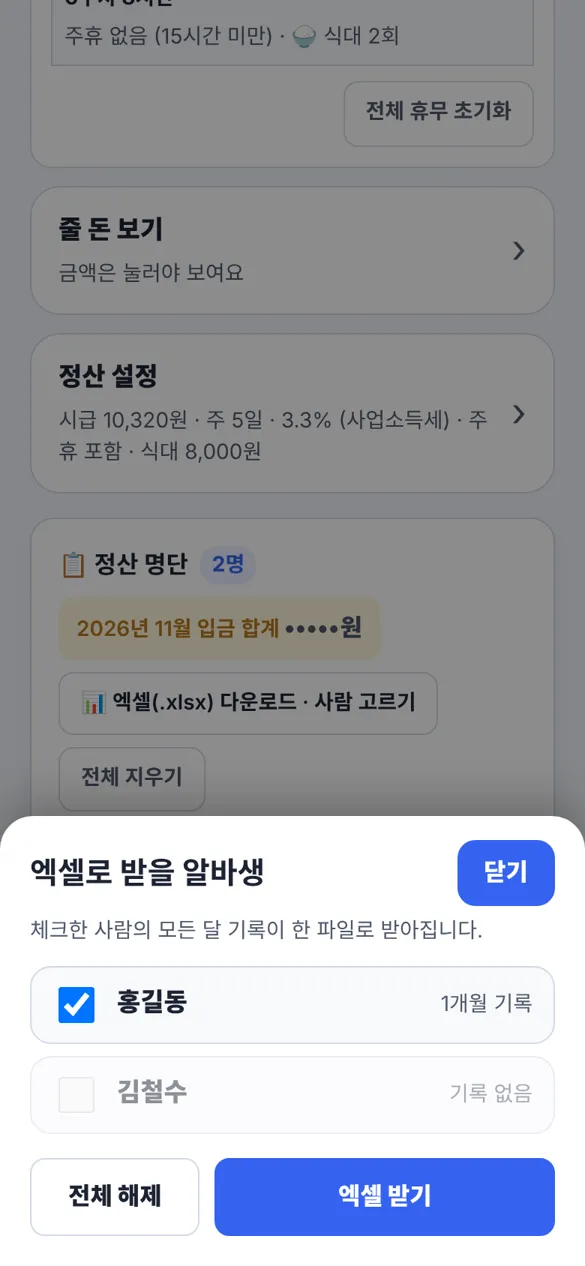
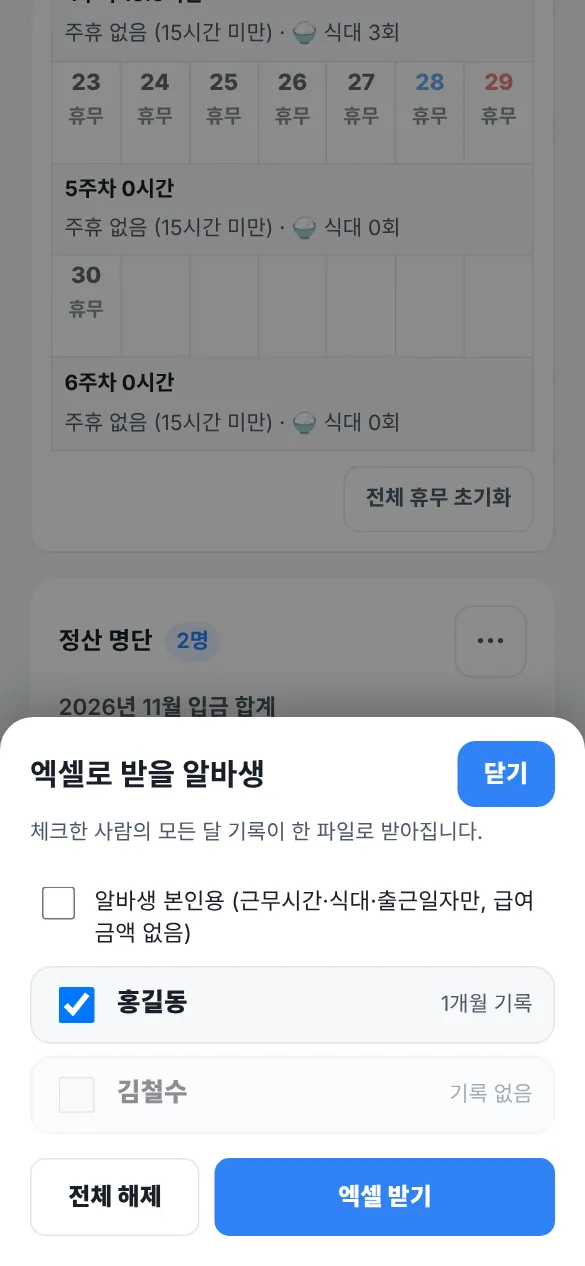
사용 방법: v1.7.0 새 화면으로 그림·문구 최신화
- 사용 방법 그림 10장을 새 화면으로 다시 찍음 (출퇴근 목록·비밀번호·퇴근 결과, 급여 첫 화면,
  알바생 추가, 날짜 설정 창, 줄 돈 보기, 정산 설정, 정산 명단 ⋯ 메뉴, 엑셀 받을 사람 고르기)
  — 예전 그림은 옛 머리띠·이모지 탭·초록 '근무 중'·큰 엑셀/전체 지우기 버튼이었음. 캐시 버전 붙임
- 문구: 근무 중 색(초록→파랑), 엑셀은 정산 명단 [⋯] → [엑셀로 받기], 공용 컴퓨터 정리는
  [⋯] → [명단 전체 지우기]·[보관함 비우기], 세율·최저시급은 설정의 해당 줄, 위생 점검 엑셀 버튼 이름,
  '⚙ 설정 →' 표기를 '설정 →'으로 (탭에 이모지가 없어짐). 영어 번역 함께
- 사용 방법 e2e(한/영)·번역 누락·화면 e2e·npm test 통과, 그림 10장 로드 확인

Claude-Session: https://claude.ai/code/session_01Lf3ccUPw6W9Ldv8KuFX3Gf

diff --git a/web/lang_web.js b/web/lang_web.js
@@ -254,8 +254,8 @@
  "위쪽 <b>달</b>을 바꾸면 그 달의 기록이 나옵니다. 기록이 없는 달은 비어 있습니다.": "Change the <b>month</b> at the top to see that month's records. Months without records are empty.",
  "시급을 바꾸면 <b>바꾼 달부터</b> 적용되고, 지난 달 기록은 그대로입니다.": "When you change the wage it applies <b>from that month on</b>; past months stay as they were.",
  "맨 아래 <b>정산 명단</b>에는 알바생이 한 줄씩 카드로 나옵니다. 근무시간과 식대 횟수, 금액이 보이고(금액은 <b>[줄 돈 보기]</b>를 눌러야 보임), 카드를 누르면 그 사람 기록으로 바뀌고, 오른쪽 <b>✕</b>를 누르면 삭제합니다.": "The <b>Staff list</b> at the bottom shows one card per person. You see hours, meal count and amount (the amount appears only after tapping <b>[Show amount to pay]</b>); tap a card to switch to that person, and tap <b>✕</b> on the right to delete.",
- "<b>[엑셀(.xlsx) 다운로드 · 사람 고르기]</b>를 누르면 알바생 목록이 뜹니다. <b>받고 싶은 사람만 체크</b>하고 <b>[엑셀 받기]</b>를 누르면, 체크한 사람의 모든 달 기록이 한 파일로 받아집니다. <b>[알바생 본인용]</b>에 체크하면 급여 금액·시급·세금 없이 <b>출근일자·근무시간·식대 횟수만</b> 담긴 파일이 만들어져 알바생에게 그대로 줄 수 있습니다. 한 명만 체크하면 파일 이름에 그 사람 이름이 들어갑니다.": "Tap <b>[Download Excel (.xlsx) · choose people]</b> to see the staff list. <b>Check only the people you want</b> and tap <b>[Get Excel]</b> to download all months for the checked people in one file. If you check <b>[For the staff member]</b>, the file contains only <b>dates worked, hours and meal counts</b> — no pay amounts, wage or tax — so you can hand it over as is. If only one person is checked, their name is in the file name.",
- "정산 명단 (카드 목록)": "Staff list (cards)",
+ "정산 명단 오른쪽 위 <b>[⋯] → [엑셀로 받기]</b>를 누르면 알바생 목록이 뜹니다. <b>받고 싶은 사람만 체크</b>하고 <b>[엑셀 받기]</b>를 누르면, 체크한 사람의 모든 달 기록이 한 파일로 받아집니다. <b>[알바생 본인용]</b>에 체크하면 급여 금액·시급·세금 없이 <b>출근일자·근무시간·식대 횟수만</b> 담긴 파일이 만들어져 알바생에게 그대로 줄 수 있습니다. 한 명만 체크하면 파일 이름에 그 사람 이름이 들어갑니다.": "Tap <b>[⋯] → [Download Excel]</b> at the top right of the staff list to see the staff list. <b>Check only the people you want</b> and tap <b>[Get Excel]</b> to download all months for the checked people in one file. If you check <b>[For the staff member]</b>, the file contains only <b>dates worked, hours and meal counts</b> — no pay amounts, wage or tax — so you can hand it over as is. If only one person is checked, their name is in the file name.",
+ "정산 명단 (오른쪽 위 ⋯ 메뉴를 연 모습)": "Staff list (with the ⋯ menu open)",
  "엑셀로 받을 알바생 고르기": "Choosing staff to export to Excel",
  "<span class=\"guide-no\">5</span>위생 점검하기": "<span class=\"guide-no\">5</span>Doing a hygiene check",
  "위쪽 <b>[위생 점검]</b> 탭을 누릅니다.": "Tap the <b>[Hygiene]</b> tab at the top.",
@@ -264,7 +264,7 @@
  "전부 괜찮다면 <b>[✅ 전체 적합으로 체크]</b>를 누르면 됩니다.": "If everything is fine, just tap <b>[✅ Mark all as pass]</b>.",
  "특이사항이 있으면 메모에 적습니다.": "Write any remarks in the memo.",
  "<b>[🗂 보관함에 저장]</b>을 누르면 그날 점검표가 저장됩니다. 매일 저장해 두면 기록이 쌓입니다.": "Tap <b>[🗂 Save to archive]</b> to save that day's checklist. Save daily to build up records.",
- "<b>[🖨 점검표 PDF 출력/저장]</b>, <b>[📊 엑셀 다운로드]</b>로 점검표를 파일로 만들 수 있습니다.": "Create files with <b>[🖨 Print / save checklist PDF]</b> and <b>[📊 Download Excel]</b>.",
+ "<b>[🖨 점검표 PDF 출력/저장]</b>, <b>[📊 점검표 엑셀(.xlsx) 다운로드]</b>로 점검표를 파일로 만들 수 있습니다.": "Create files with <b>[🖨 Print / save checklist PDF]</b> and <b>[📊 Download checklist Excel (.xlsx)]</b>.",
  "💡 20번 항목(냉장·냉동고 온도)은 체크해도, 입력한 온도가 기준(냉장 0~5°C, 냉동 -18°C 이하)을 벗어나면 점검필요로 나옵니다.": "💡 For item 20 (fridge/freezer temperature), even if checked, it shows Needs attention if the entered temperature is outside the standard (fridge 0–5°C, freezer −18°C or below).",
  "<span class=\"guide-no\">6</span>구글 시트에 자동 저장하기 <small>(선택)</small>": "<span class=\"guide-no\">6</span>Saving automatically to Google Sheets <small>(optional)</small>",
  "휴대폰을 바꾸거나 다른 컴퓨터에서 열어도 <b>같은 기록</b>을 보고 싶을 때 쓰세요. 내 구글 드라이브에 자동으로 저장됩니다.": "Use this to see <b>the same records</b> after changing phones or opening on another computer. Data is saved automatically to your own Google Drive.",
@@ -290,11 +290,11 @@
  "💡 구글 연동을 쓰지 않더라도 가끔 백업 파일을 받아 두면 안심입니다.": "💡 Even if you don't use Google save, it is reassuring to download a backup file now and then.",
  "<span class=\"guide-no\">8</span>자주 묻는 질문": "<span class=\"guide-no\">8</span>FAQ",
  "세금이나 4대보험 비율이 바뀌었어요.": "The tax or insurance rates changed.",
- "위쪽 <b>⚙ 설정</b> 탭에서 소득세·국민연금·건강보험 등의 비율과 최저시급을 고치면 바로 계산에 반영됩니다. 처음 값으로 되돌릴 수도 있습니다.": "In the <b>⚙ Settings</b> tab, change income tax, pension, health insurance rates and the minimum wage, and the calculation updates immediately. You can also reset to the defaults.",
+ "<b>설정</b> 탭의 <b>세금·4대보험 비율</b>, <b>최저시급·식사 시간대</b> 줄을 눌러 소득세·국민연금·건강보험 등의 비율과 최저시급을 고치면 바로 계산에 반영됩니다. 처음 값으로 되돌릴 수도 있습니다.": "In the <b>Settings</b> tab, open <b>Tax & insurance rates</b> and <b>Minimum wage & meal times</b> to change income tax, pension, health insurance rates and the minimum wage, and the calculation updates immediately. You can also reset to the defaults.",
  "기록이 사라졌어요.": "My records disappeared.",
  "기록은 사용 중인 브라우저에 저장됩니다. 브라우저의 \"인터넷 사용 기록/사이트 데이터 삭제\"를 하면 같이 지워집니다. 구글 연동이나 백업 파일이 있다면 [☁ 구글 저장] 창에서 불러오세요.": "Records are stored in the browser you use. Clearing \"browsing data / site data\" removes them too. If you have Google save or a backup file, load them from the [☁ Google save] window.",
  "가게 공용 컴퓨터에서 써도 되나요?": "Is it OK to use on a shared store computer?",
- "쓰고 난 뒤 정산 명단의 <b>[전체 지우기]</b>와 점검 보관함의 <b>[비우기]</b>를 눌러 주세요. 다음 사람이 같은 브라우저에서 알바 이름과 시급을 볼 수 있습니다.": "After use, tap <b>[Clear all]</b> in the staff list and <b>[Empty]</b> in the check archive. Otherwise the next person on the same browser can see staff names and wages.",
+ "쓰고 난 뒤 정산 명단과 점검 보관함의 오른쪽 위 <b>[⋯]</b>에서 <b>[명단 전체 지우기]</b>, <b>[보관함 비우기]</b>를 눌러 주세요. 다음 사람이 같은 브라우저에서 알바 이름과 시급을 볼 수 있습니다.": "After use, open <b>[⋯]</b> at the top right of the staff list and the saved checks and tap <b>[Clear the whole list]</b> and <b>[Empty saved checks]</b>. Otherwise the next person on the same browser can see staff names and wages.",
  "내가 입력한 급여 정보가 어디로 전송되나요?": "Where is the pay information I enter sent?",
  "기본적으로 어디로도 전송되지 않고 이 기기에서만 계산됩니다. 구글 연동을 켠 경우에만 내 구글 드라이브로 저장됩니다.": "By default it is sent nowhere and calculated only on this device. It is saved to your own Google Drive only if you turn on Google save.",
  "계산 결과를 그대로 신고해도 되나요?": "Can I file taxes using these results as they are?",
@@ -303,19 +303,19 @@
  "매장에 두는 <b>공용 기기(사장님 폰·태블릿)</b>에서 알바생이 직접 출근·퇴근을 찍게 하는 기능입니다. 찍은 시각은 그대로 달력과 구글 시트에 들어갑니다.": "This lets staff clock in and out themselves on a <b>shared store device (the owner's phone or tablet)</b>. The recorded times go straight into the calendar and Google Sheet.",
  "① 준비 (사장님이 한 번만)": "① Setup (owner, once)",
  "알바생마다 <b>[정산 설정]</b>(컴퓨터는 왼쪽 입력칸)의 <b>\"출퇴근 비밀번호\"</b>를 정해 줍니다. 비밀번호가 없는 알바생은 출퇴근을 찍을 수 없습니다.": "Set a <b>\"clock-in password\"</b> for each staff member in <b>[Pay settings]</b> (on a computer, the input fields on the left). Staff without a password cannot clock in or out.",
- "<b>⚙ 설정 → 관리자 비밀번호</b>를 정합니다. 처음 직원을 추가하면 안내창이 뜨는데, 바로 정하거나 <b>[나중에]</b>를 눌러 나중에 정해도 됩니다. 정하면 평소에는 <b>⏱ 출퇴근 화면만</b> 보이고, 급여·위생·설정은 <b>[🔒 관리자]</b>를 눌러 비밀번호를 입력해야 열립니다. 아무것도 안 하면 10분 뒤 자동으로 다시 잠깁니다.": "Set an <b>⚙ Settings → Admin password</b>. A prompt appears when you first add staff — set it right away or tap <b>[Later]</b> and do it afterwards. Once set, normally only the <b>⏱ clock-in screen</b> is shown, and Payroll, Hygiene and Settings open only after you tap <b>[🔒 Admin]</b> and enter the password. It locks again automatically after 10 minutes of inactivity.",
+ "<b>설정 → 관리자 비밀번호</b>를 정합니다. 처음 직원을 추가하면 안내창이 뜨는데, 바로 정하거나 <b>[나중에]</b>를 눌러 나중에 정해도 됩니다. 정하면 평소에는 <b>⏱ 출퇴근 화면만</b> 보이고, 급여·위생·설정은 <b>[🔒 관리자]</b>를 눌러 비밀번호를 입력해야 열립니다. 아무것도 안 하면 10분 뒤 자동으로 다시 잠깁니다.": "Set an <b>Settings → Admin password</b>. A prompt appears when you first add staff — set it right away or tap <b>[Later]</b> and do it afterwards. Once set, normally only the <b>⏱ clock-in screen</b> is shown, and Payroll, Hygiene and Settings open only after you tap <b>[🔒 Admin]</b> and enter the password. It locks again automatically after 10 minutes of inactivity.",
  "<b>자정까지 퇴근을 안 찍으면</b> 출근 중인 사람은 그날 <b>출근이 무효(휴무)로 처리</b>됩니다. 퇴근을 꼭 찍어 주세요. 잊었다면 사장님이 달력에서 그날 시간을 직접 넣어 주세요. (시트 기록에는 \"퇴근누락(무효)·자동(자정)\"으로 남습니다) 다시 로그인하거나 시트에서 불러오면 시트의 출퇴근 기록을 읽어 출근/퇴근 상태도 되살립니다.": "<b>If someone doesn't clock out by midnight</b>, that day's clock-in is <b>treated as void (a day off)</b>. Please make sure to clock out. If it was forgotten, the owner can enter that day's hours on the calendar. (The sheet log records \"missed clock-out (void) · auto (midnight)\".) When you log in again or load from the sheet, the clock-in/out log in the sheet is read and the in/out status is restored.",
  "출퇴근 화면 맨 아래에 <b>구글 저장 연결 상태</b>가 보입니다. 빨간 글씨 \"구글 로그인이 풀렸어요\"가 보이면 사장님이 [🔒 관리자]로 들어가 구글을 다시 연결해 주세요. 새로고침해도 로그인·관리자 잠금 해제는 약 10분(구글은 약 1시간) 동안 유지됩니다.": "The <b>Google save connection status</b> is shown at the bottom of the clock-in screen. If you see the red text \"Google sign-in expired\", the owner should go in via [🔒 Admin] and reconnect Google. Even after a refresh, login and admin unlock are kept for about 10 minutes (Google for about 1 hour).",
  "알바생이나 명단을 지우면 시트의 <b>출퇴근기록</b> 탭에서도 그 사람 줄이 함께 지워집니다.": "If you delete a staff member or the list, their rows are also deleted from the <b>clock-in log</b> tab of the sheet.",
- "출퇴근 화면을 계속 켜 두면 <b>화면 보호기</b>가 작동합니다(기본 3분). 화면이 어두워지고 시계가 천천히 움직여 번인을 줄여요. 한 번 누르면 돌아옵니다. <b>⚙ 설정 → 화면 보호기</b>에서 시간을 바꾸거나 끌 수 있습니다.": "If the clock-in screen stays on, the <b>screen saver</b> starts (default 3 minutes). The screen dims and the clock moves slowly to reduce burn-in. Tap once to return. Change or turn it off in <b>⚙ Settings → Screen saver</b>.",
- "<b>⚙ 설정 → 출퇴근 알림음</b>에서 소리 크기를 키우고, 출근과 퇴근 소리를 각각 다른 소리로 고를 수 있습니다. (매장 기기에서 정하세요)": "In <b>⚙ Settings → Clock-in/out sound</b> you can raise the volume and choose different sounds for clock-in and clock-out. (Set it on the store device.)",
+ "출퇴근 화면을 계속 켜 두면 <b>화면 보호기</b>가 작동합니다(기본 3분). 화면이 어두워지고 시계가 천천히 움직여 번인을 줄여요. 한 번 누르면 돌아옵니다. <b>설정 → 화면 보호기</b>에서 시간을 바꾸거나 끌 수 있습니다.": "If the clock-in screen stays on, the <b>screen saver</b> starts (default 3 minutes). The screen dims and the clock moves slowly to reduce burn-in. Tap once to return. Change or turn it off in <b>Settings → Screen saver</b>.",
+ "<b>설정 → 출퇴근 알림음</b>에서 소리 크기를 키우고, 출근과 퇴근 소리를 각각 다른 소리로 고를 수 있습니다. (매장 기기에서 정하세요)": "In <b>Settings → Clock-in/out sound</b> you can raise the volume and choose different sounds for clock-in and clock-out. (Set it on the store device.)",
  "<b>잊어버렸다면?</b> 구글 저장을 켜 두면 구글 시트의 <b>관리자</b> 탭 오른쪽 칸(B1)에 비밀번호가 적혀 있습니다. 그 칸을 새 비밀번호로 고친 뒤, 잠금 창에서 <b>[비밀번호를 잊었어요]</b>를 누르면 적용됩니다.": "<b>Forgot it?</b> With Google save on, the password is written in the right cell (B1) of the <b>Admin</b> tab of your Google Sheet. Change that cell to a new password, then tap <b>[I forgot my password]</b> on the lock screen to apply it.",
  "비밀번호를 잊으면 열 방법이 없으니 <b>구글 저장이나 백업 파일</b>을 꼭 해 두세요.": "If you forget the password there is no way to open it, so be sure to use <b>Google save or a backup file</b>.",
  "② 알바생이 찍는 방법": "② How staff clock in/out",
  "출퇴근 화면에서 <b>내 이름</b>을 누릅니다.": "On the clock-in screen, tap <b>your name</b>.",
  "<b>비밀번호</b>를 입력하고 <b>[출근 찍기]</b>(출근 중이면 <b>[퇴근 찍기]</b>)를 누릅니다.": "Enter your <b>password</b> and tap <b>[Clock in]</b> (or <b>[Clock out]</b> if you are clocked in).",
  "결과 창에 <b>이번 달 일한 일수와 누적 근무시간</b>이 나오고, <b>5초 뒤 자동으로 닫힙니다</b>. 바로 닫으려면 [닫기]를 누르세요.": "The result window shows <b>days worked this month and total hours</b> and <b>closes automatically after 5 seconds</b>. Tap [Close] to close it right away.",
- "출퇴근 화면 (초록색이 근무 중)": "Clock-in screen (green means working)",
+ "출퇴근 화면 (파란색이 근무 중)": "Clock-in screen (blue means working)",
  "비밀번호 입력": "Enter password",
  "퇴근을 찍은 뒤 결과 (5초 뒤 자동으로 닫힘)": "Result after clocking out (closes automatically after 5 seconds)",
  "③ 어떻게 기록되나요": "③ How is it recorded?",
@@ -621,10 +621,10 @@
  "관리자 화면 위의 <b>🔔</b>에 만료가 다가온 사람 수가 나옵니다. 누르면 <b>만료 → 7일 이내(빨강) → 곧 만료(노랑) → 날짜 미등록</b> 순서로 보입니다. 출퇴근 화면에는 보이지 않습니다.": "The <b>🔔</b> at the top of the admin screen shows how many people are close to expiry. Tap it to see them in order: <b>expired → within 7 days (red) → expiring soon (yellow) → no dates</b>. It is not shown on the clock-in screen.",
  "새 보건증을 받으면 <b>[새로 받았어요]</b>에서 검진일만 고르세요. 옛 만료일 <b>전후 30일 안</b>에 검진했다면 법에 따라 <b>옛 만료일 다음 날부터 1년</b>으로 계산됩니다.": "When a new certificate is issued, just pick the exam date under <b>[Got a new one]</b>. If the exam was within <b>30 days before or after</b> the old expiry, the new one is counted <b>from the day after the old expiry for 1 year</b>, as the rules require.",
  "그만둔 사람이나 휴직 중인 사람은 <b>[알림 끄기]</b> 또는 정산 설정의 <b>보건증 알림 끄기</b>로 목록에서 뺄 수 있습니다.": "For people who left or are on leave, use <b>[Turn off alert]</b> or <b>Turn off health certificate alerts</b> in pay settings to remove them from the list.",
- "언제부터 알려 줄지는 <b>⚙ 설정 → 보건증 알림</b>에서 30일·14일·7일 중 고릅니다. 보건소 결과가 보통 3~7일 걸리니 30일을 추천합니다.": "Choose when alerts start (30, 14 or 7 days) in <b>⚙ Settings → Health certificate alerts</b>. Results usually take 3–7 days, so 30 days is recommended.",
+ "언제부터 알려 줄지는 <b>설정 → 보건증 알림</b>에서 30일·14일·7일 중 고릅니다. 보건소 결과가 보통 3~7일 걸리니 30일을 추천합니다.": "Choose when alerts start (30, 14 or 7 days) in <b>Settings → Health certificate alerts</b>. Results usually take 3–7 days, so 30 days is recommended.",
  "💡 보건증이 만료된 사람이나 날짜를 안 적은 사람이 있으면 위생 점검표 <b>4번(건강진단결과서)</b> 항목 아래에 안내가 뜹니다. 체크 여부는 사장님이 정합니다.": "💡 If someone's certificate has expired or has no dates, a note appears under item <b>4 (health certificate)</b> of the hygiene checklist. Whether to tick it is up to you.",
  "<span class=\"guide-sum\"><span class=\"guide-name\">손님 계좌이체 QR</span><small class=\"guide-sub\">계좌 저장 · QR 크게 보기 · 안내판 인쇄</small></span>": "<span class=\"guide-sum\"><span class=\"guide-name\">Customer bank transfer QR</span><small class=\"guide-sub\">Save account · Show QR · Print sign</small></span>",
- "<b>⚙ 설정 → 손님 계좌이체 QR</b>에 은행·계좌번호·예금주를 적고 <b>[저장]</b>을 누릅니다. 관리자 비밀번호가 있으면 한 번 더 확인합니다.": "Enter the bank, account number and holder in <b>⚙ Settings → Customer bank transfer QR</b> and tap <b>[Save]</b>. If an admin password is set, it is asked once more.",
+ "<b>설정 → 손님 계좌이체 QR</b>에 은행·계좌번호·예금주를 적고 <b>[저장]</b>을 누릅니다. 관리자 비밀번호가 있으면 한 번 더 확인합니다.": "Enter the bank, account number and holder in <b>Settings → Customer bank transfer QR</b> and tap <b>[Save]</b>. If an admin password is set, it is asked once more.",
  "출퇴근 화면의 <b>[💳 계좌이체 QR]</b>을 누르면 큰 QR이 뜹니다. 관리자 잠금 중에도 <b>보기만</b> 할 수 있습니다. <b>[🖨 안내판 인쇄]</b>로 카운터에 붙여 둘 안내판도 만들 수 있습니다.": "Tap <b>[💳 Bank transfer QR]</b> on the clock-in screen to show a large QR. It can be <b>viewed</b> even while the admin lock is on. Use <b>[🖨 Print sign]</b> to make a sign for the counter.",
  "손님이 휴대폰 카메라로 찍으면 은행·계좌번호·예금주가 보이고, <b>[계좌번호 복사]</b>를 누른 뒤 쓰는 송금 앱에 붙여 넣으면 됩니다. 계좌 정보는 주소의 # 뒤에만 들어 있어 어느 서버로도 보내지지 않습니다.": "When a customer scans it with a phone camera, the bank, account number and holder appear; they tap <b>[Copy account number]</b> and paste it into their payment app. The account details are only in the part of the link after #, so they are not sent to any server.",
  "다른 기기에서 계좌가 바뀌면 이 기기에서는 <b>확인하기 전까지 QR이 숨겨지고</b> 🔔와 설정에 안내가 뜹니다. 맞는 계좌인지 보고 <b>[맞아요, 이 계좌로 QR 표시]</b>를 누르세요.": "If the account is changed on another device, <b>the QR is hidden on this device until you confirm it</b>, and a notice appears in 🔔 and Settings. Check the account and tap <b>[Correct — show QR for this account]</b>.",
@@ -778,14 +778,14 @@
     "<span class=\"guide-sum\"><span class=\"guide-name\">처음 시작하기</span><small class=\"guide-sub\">로그인 없이 바로 · 글씨 크게 · 홈 화면에 추가</small></span>": "<span class=\"guide-sum\"><span class=\"guide-name\">Getting started</span><small class=\"guide-sub\">No sign-up · Bigger text · Add to home screen</small></span>",
     "💡 입력한 내용은 이 기기에 저장됩니다. 구글 시트에 저장하려면 <b>[구글 시트 자동 저장]</b>, 알바생이 직접 출퇴근을 찍게 하려면 <b>[매장 기기 준비]</b>를 보세요.": "💡 What you enter is saved on this device. To save to Google Sheets see <b>[Google Sheets auto-save]</b>; to let staff clock in themselves see <b>[Store device setup]</b>.",
     "<span class=\"guide-sum\"><span class=\"guide-name\">알바생: 출퇴근 찍기</span><small class=\"guide-sub\">이름 → 비밀번호 → 출근/퇴근</small></span>": "<span class=\"guide-sum\"><span class=\"guide-name\">Staff: clock in/out</span><small class=\"guide-sub\">Name → password → in/out</small></span>",
-    "매장 기기의 <b>⏱ 출퇴근</b> 화면에서 찍습니다. 근무 중인 사람은 <b>맨 위에 파란색</b>으로 보입니다.": "Punch on the <b>⏱ Clock-in</b> screen of the store device. People who are working appear <b>at the top in blue</b>.",
+    "매장 기기의 <b>출퇴근</b> 화면에서 찍습니다. 근무 중인 사람은 <b>맨 위에 파란색</b>으로 보입니다.": "Punch on the <b>⏱ Clock-in</b> screen of the store device. People who are working appear <b>at the top in blue</b>.",
     "<b>퇴근을 꼭 찍어 주세요.</b> 안 찍으면 자동 퇴근 처리되고, 그날 근무는 사장님이 확인한 뒤에 기록됩니다.": "<b>Please always clock out.</b> If you don't, you are clocked out automatically and that day's shift is recorded only after the owner checks it.",
     "비밀번호를 5번 연속 틀리면 30초 동안 막힙니다(새로고침해도 그대로). 틀린 기록도 시트에 남습니다. 관리자 비밀번호는 5번 틀리면 1분 동안 막힙니다.": "After 5 wrong passwords in a row, punching is blocked for 30 seconds (even after a refresh). Wrong attempts are also logged in the sheet. 5 wrong admin passwords block it for 1 minute.",
     "내 이름 옆에 <b>\"⚠ 퇴근 확인 필요\"</b>가 보이면 사장님께 실제 퇴근 시각을 알려 주세요.": "If you see <b>\"⚠ Clock-out check needed\"</b> next to your name, tell the owner your actual clock-out time.",
     "<span class=\"guide-sum\"><span class=\"guide-name\">사장님: 매장 기기 준비</span><small class=\"guide-sub\">비밀번호 · 관리자 잠금 · 구글 연동 · 출퇴근 기기 · 화면 보호기 · 소리</small></span>": "<span class=\"guide-sum\"><span class=\"guide-name\">Owner: store device setup</span><small class=\"guide-sub\">Passwords · Admin lock · Google · Clock-in device · Screen saver · Sound</small></span>",
     "매장에 두는 <b>공용 기기(사장님 폰·태블릿)</b>에서 알바생이 직접 출근·퇴근을 찍게 하려면 아래를 한 번만 해 두세요.": "To let staff clock in and out themselves on a <b>shared store device (owner's phone or tablet)</b>, do the following once.",
     "<b>구글 저장</b>을 연동해 두세요. 출퇴근 기록이 시트에 쌓이고, 기기가 바뀌어도 기록이 남습니다. 연동이 안 되어 있으면 출퇴근 화면에 붉은 경고가 보입니다.": "Connect <b>Google save</b>. Punch records build up in the sheet and stay safe even if the device changes. If it is not connected, a red warning appears on the clock-in screen.",
-    "<b>⚙ 설정 → 출퇴근 시간 끊기</b>에서 시간 끊는 단위, 지각·조기퇴근 봐주기, <b>자동 퇴근 시각</b>을 매장에 맞게 정합니다. (바로 아래 [출퇴근 시간은 어떻게 기록되나요] 참고)": "In <b>⚙ Settings → Punch time rounding</b>, set the rounding unit, the late/early grace and the <b>auto clock-out time</b> for your store. (See [How are punch times recorded?] just below)",
+    "<b>설정 → 출퇴근 시간 끊기</b>에서 시간 끊는 단위, 지각·조기퇴근 봐주기, <b>자동 퇴근 시각</b>을 매장에 맞게 정합니다. (바로 아래 [출퇴근 시간은 어떻게 기록되나요] 참고)": "In <b>Settings → Punch time rounding</b>, set the rounding unit, the late/early grace and the <b>auto clock-out time</b> for your store. (See [How are punch times recorded?] just below)",
     "<span class=\"guide-sum\"><span class=\"guide-name\">출퇴근 시간은 어떻게 기록되나요</span><small class=\"guide-sub\">올림·내림 · 봐주기(유예) · 합치기 · 밤 넘김 · 일괄 퇴근</small></span>": "<span class=\"guide-sum\"><span class=\"guide-name\">How are punch times recorded?</span><small class=\"guide-sub\">Round up/down · Grace · Merging · Overnight · Clock out all</small></span>",
     "출근은 <b>올림</b>, 퇴근은 <b>내림</b>으로 정한 단위(기본 30분)에 맞춰 달력에 기록되고, 급여 계산에 바로 반영됩니다.": "Clock-in is <b>rounded up</b> and clock-out <b>rounded down</b> to the chosen unit (default 30 min), recorded on the calendar and reflected in pay right away.",
     "찍은 시각": "Punched",
@@ -796,7 +796,7 @@
     "출근 09:06": "In 09:06",
     "퇴근 17:56": "Out 17:56",
     "퇴근 18:10": "Out 18:10",
-    "<b>⚙ 설정 → 출퇴근 시간 끊기</b>에서 단위(5·10·15·20·30·60분), 지각·조기퇴근 <b>봐주기(유예 0·5·10·15분)</b>, 출근·퇴근 각각 <b>찍은 그대로(분 단위)</b>를 고를 수 있습니다. 설정 화면에 지금 설정으로 계산한 예시가 나옵니다.": "In <b>⚙ Settings → Punch time rounding</b> you can choose the unit (5/10/15/20/30/60 min), a <b>grace period (0/5/10/15 min)</b> for late arrival and early leaving, and <b>exact times (to the minute)</b> separately for clock-in and clock-out. The settings screen shows examples calculated with your settings.",
+    "<b>설정 → 출퇴근 시간 끊기</b>에서 단위(5·10·15·20·30·60분), 지각·조기퇴근 <b>봐주기(유예 0·5·10·15분)</b>, 출근·퇴근 각각 <b>찍은 그대로(분 단위)</b>를 고를 수 있습니다. 설정 화면에 지금 설정으로 계산한 예시가 나옵니다.": "In <b>Settings → Punch time rounding</b> you can choose the unit (5/10/15/20/30/60 min), a <b>grace period (0/5/10/15 min)</b> for late arrival and early leaving, and <b>exact times (to the minute)</b> separately for clock-in and clock-out. The settings screen shows examples calculated with your settings.",
     "달력에는 위 규칙으로 정한 시각이, 시트의 <b>출퇴근기록</b> 탭에는 <b>실제로 찍은 시각</b>이 그대로 남습니다.": "The calendar gets the time set by these rules; the sheet's <b>punch log</b> tab keeps the <b>actual punched time</b>.",
     "같은 날 두 번 일하면(점심 후 다시 출근) 한 칸으로 합쳐지고 사이 시간은 휴게로 빠집니다. 휴게시간은 따로 넣지 않으면 0분입니다.": "If someone works twice in one day (back after lunch), it is merged into one cell and the gap counts as break. Break time is 0 minutes unless you enter it.",
     "밤을 넘겨 퇴근해도(예: 18:00 출근, 01:00 퇴근) <b>자동 퇴근 시각 전이면</b> 출근한 날 칸에 야간 근무로 들어갑니다.": "Clocking out after midnight (e.g. in 18:00, out 01:00) is recorded as a night shift on the clock-in day <b>if it is before the auto clock-out time</b>.",
@@ -846,7 +846,7 @@
     "⚠ 시트에 못 올린 출퇴근 기록이 500건을 넘어 가장 오래된 기록부터 지워져요. 구글 로그인을 확인해 주세요.": "⚠ Over 500 clock records are waiting to upload, so the oldest are being dropped. Please check the Google sign-in.",
     "확인 필요": "Check needed",
     "이 기기 이름": "This device name",
-    "사장님 폰·PC로도 함께 보거나 고친다면, 매장 기기에서 <b>⚙ 설정 → 출퇴근 기기 → [이 기기를 출퇴근 기기로 지정]</b>을 눌러 두세요. 매장 기기만 시트에 저장하고 다른 기기의 수정은 요청으로 받아 반영해서, 기기끼리 기록을 덮어쓰지 않습니다. (아래 [구글 시트 자동 저장] 참고)": "If you also view or edit on the owner's phone/PC, press <b>⚙ Settings → Clock-in device → [Set this device as the clock-in device]</b> on the store device. Only the store device saves to the sheet and applies edits from other devices as requests, so devices never overwrite each other's records. (See [Google Sheet auto-save] below)",
+    "사장님 폰·PC로도 함께 보거나 고친다면, 매장 기기에서 <b>설정 → 출퇴근 기기 → [이 기기를 출퇴근 기기로 지정]</b>을 눌러 두세요. 매장 기기만 시트에 저장하고 다른 기기의 수정은 요청으로 받아 반영해서, 기기끼리 기록을 덮어쓰지 않습니다. (아래 [구글 시트 자동 저장] 참고)": "If you also view or edit on the owner's phone/PC, press <b>Settings → Clock-in device → [Set this device as the clock-in device]</b> on the store device. Only the store device saves to the sheet and applies edits from other devices as requests, so devices never overwrite each other's records. (See [Google Sheet auto-save] below)",
     "같은 날 앞선 근무와 합치면 24시간이 넘는 경우(예: 새벽 근무 뒤 같은 날 밤 근무)에는 앞선 근무를 지우지 않고 이번 근무를 <b>[⚠ 퇴근 확인 필요]</b>에 찍은 퇴근 시각과 함께 남깁니다.": "If combining with an earlier shift on the same day would exceed 24 hours (e.g. a dawn shift and a night shift on the same day), the earlier shift is kept and this shift is left under <b>[⚠ Clock-out check needed]</b> with the clock-out time you punched.",
     "급여 탭 맨 위에 빨간 [⚠ 다른 기기와 수정이 겹쳤어요]가 떠요.": "A red [⚠ edit(s) overlapped with another device] appears at the top of the pay tab.",
     "두 기기에서 같은 곳을 거의 동시에 고친 경우입니다. <b>저장된 값</b>과 <b>덮인 값</b>을 보고 <b>[저장된 값 유지]</b> 또는 <b>[덮인 값으로 되돌리기]</b>를 누르세요. 출퇴근 기기를 지정해 두면 거의 생기지 않습니다.": "Two devices changed the same thing at almost the same time. Compare the <b>Saved value</b> and the <b>Overwritten value</b>, then press <b>[Keep saved value]</b> or <b>[Restore overwritten value]</b>. This rarely happens once a clock-in device is set.",

diff --git a/web/index.html b/web/index.html
@@ -637,15 +637,15 @@
         <details class="guide-item" id="g-staff">
           <summary><span class="guide-sum"><span class="guide-name">알바생: 출퇴근 찍기</span><small class="guide-sub">이름 → 비밀번호 → 출근/퇴근</small></span></summary>
           <div class="guide-body">
-            <p>매장 기기의 <b>⏱ 출퇴근</b> 화면에서 찍습니다. 근무 중인 사람은 <b>맨 위에 파란색</b>으로 보입니다.</p>
+            <p>매장 기기의 <b>출퇴근</b> 화면에서 찍습니다. 근무 중인 사람은 <b>맨 위에 파란색</b>으로 보입니다.</p>
             <ol>
               <li>출퇴근 화면에서 <b>내 이름</b>을 누릅니다.</li>
               <li><b>비밀번호</b>를 입력하고 <b>[출근 찍기]</b>(출근 중이면 <b>[퇴근 찍기]</b>)를 누릅니다.</li>
               <li>결과 창에 <b>이번 달 일한 일수와 누적 근무시간</b>이 나오고, <b>5초 뒤 자동으로 닫힙니다</b>. 바로 닫으려면 [닫기]를 누르세요.</li>
             </ol>
-            <figure class="guide-fig"><img src="./img/guide-punch-list.webp" alt="출퇴근 화면 (초록색이 근무 중)" loading="lazy" decoding="async"><figcaption>출퇴근 화면 (초록색이 근무 중)</figcaption></figure>
-            <figure class="guide-fig"><img src="./img/guide-punch-pw.webp" alt="비밀번호 입력" loading="lazy" decoding="async"><figcaption>비밀번호 입력</figcaption></figure>
-            <figure class="guide-fig"><img src="./img/guide-punch-out.webp" alt="퇴근을 찍은 뒤 결과 (5초 뒤 자동으로 닫힘)" loading="lazy" decoding="async"><figcaption>퇴근을 찍은 뒤 결과 (5초 뒤 자동으로 닫힘)</figcaption></figure>
+            <figure class="guide-fig"><img src="./img/guide-punch-list.webp?v=171" alt="출퇴근 화면 (파란색이 근무 중)" loading="lazy" decoding="async"><figcaption>출퇴근 화면 (파란색이 근무 중)</figcaption></figure>
+            <figure class="guide-fig"><img src="./img/guide-punch-pw.webp?v=171" alt="비밀번호 입력" loading="lazy" decoding="async"><figcaption>비밀번호 입력</figcaption></figure>
+            <figure class="guide-fig"><img src="./img/guide-punch-out.webp?v=171" alt="퇴근을 찍은 뒤 결과 (5초 뒤 자동으로 닫힘)" loading="lazy" decoding="async"><figcaption>퇴근을 찍은 뒤 결과 (5초 뒤 자동으로 닫힘)</figcaption></figure>
             <ul>
               <li><b>퇴근을 꼭 찍어 주세요.</b> 안 찍으면 자동 퇴근 처리되고, 그날 근무는 사장님이 확인한 뒤에 기록됩니다.</li>
               <li>비밀번호를 5번 연속 틀리면 30초 동안 막힙니다(새로고침해도 그대로). 틀린 기록도 시트에 남습니다. 관리자 비밀번호는 5번 틀리면 1분 동안 막힙니다.</li>
@@ -660,12 +660,12 @@
             <p>매장에 두는 <b>공용 기기(사장님 폰·태블릿)</b>에서 알바생이 직접 출근·퇴근을 찍게 하려면 아래를 한 번만 해 두세요.</p>
             <ol>
               <li>알바생마다 <b>[정산 설정]</b>(컴퓨터는 왼쪽 입력칸)의 <b>"출퇴근 비밀번호"</b>를 정해 줍니다. 비밀번호가 없는 알바생은 출퇴근을 찍을 수 없습니다.</li>
-              <li><b>⚙ 설정 → 관리자 비밀번호</b>를 정합니다. 처음 직원을 추가하면 안내창이 뜨는데, 바로 정하거나 <b>[나중에]</b>를 눌러 나중에 정해도 됩니다. 정하면 평소에는 <b>⏱ 출퇴근 화면만</b> 보이고, 급여·위생·설정은 <b>[🔒 관리자]</b>를 눌러 비밀번호를 입력해야 열립니다. 아무것도 안 하면 10분 뒤 자동으로 다시 잠깁니다.</li>
+              <li><b>설정 → 관리자 비밀번호</b>를 정합니다. 처음 직원을 추가하면 안내창이 뜨는데, 바로 정하거나 <b>[나중에]</b>를 눌러 나중에 정해도 됩니다. 정하면 평소에는 <b>⏱ 출퇴근 화면만</b> 보이고, 급여·위생·설정은 <b>[🔒 관리자]</b>를 눌러 비밀번호를 입력해야 열립니다. 아무것도 안 하면 10분 뒤 자동으로 다시 잠깁니다.</li>
               <li><b>구글 저장</b>을 연동해 두세요. 출퇴근 기록이 시트에 쌓이고, 기기가 바뀌어도 기록이 남습니다. 연동이 안 되어 있으면 출퇴근 화면에 붉은 경고가 보입니다.</li>
-              <li>사장님 폰·PC로도 함께 보거나 고친다면, 매장 기기에서 <b>⚙ 설정 → 출퇴근 기기 → [이 기기를 출퇴근 기기로 지정]</b>을 눌러 두세요. 매장 기기만 시트에 저장하고 다른 기기의 수정은 요청으로 받아 반영해서, 기기끼리 기록을 덮어쓰지 않습니다. (아래 [구글 시트 자동 저장] 참고)</li>
-              <li><b>⚙ 설정 → 출퇴근 시간 끊기</b>에서 시간 끊는 단위, 지각·조기퇴근 봐주기, <b>자동 퇴근 시각</b>을 매장에 맞게 정합니다. (바로 아래 [출퇴근 시간은 어떻게 기록되나요] 참고)</li>
-              <li>출퇴근 화면을 계속 켜 두면 <b>화면 보호기</b>가 작동합니다(기본 3분). 화면이 어두워지고 시계가 천천히 움직여 번인을 줄여요. 한 번 누르면 돌아옵니다. <b>⚙ 설정 → 화면 보호기</b>에서 시간을 바꾸거나 끌 수 있습니다.</li>
-              <li><b>⚙ 설정 → 출퇴근 알림음</b>에서 소리 크기를 키우고, 출근과 퇴근 소리를 각각 다른 소리로 고를 수 있습니다. (매장 기기에서 정하세요)</li>
+              <li>사장님 폰·PC로도 함께 보거나 고친다면, 매장 기기에서 <b>설정 → 출퇴근 기기 → [이 기기를 출퇴근 기기로 지정]</b>을 눌러 두세요. 매장 기기만 시트에 저장하고 다른 기기의 수정은 요청으로 받아 반영해서, 기기끼리 기록을 덮어쓰지 않습니다. (아래 [구글 시트 자동 저장] 참고)</li>
+              <li><b>설정 → 출퇴근 시간 끊기</b>에서 시간 끊는 단위, 지각·조기퇴근 봐주기, <b>자동 퇴근 시각</b>을 매장에 맞게 정합니다. (바로 아래 [출퇴근 시간은 어떻게 기록되나요] 참고)</li>
+              <li>출퇴근 화면을 계속 켜 두면 <b>화면 보호기</b>가 작동합니다(기본 3분). 화면이 어두워지고 시계가 천천히 움직여 번인을 줄여요. 한 번 누르면 돌아옵니다. <b>설정 → 화면 보호기</b>에서 시간을 바꾸거나 끌 수 있습니다.</li>
+              <li><b>설정 → 출퇴근 알림음</b>에서 소리 크기를 키우고, 출근과 퇴근 소리를 각각 다른 소리로 고를 수 있습니다. (매장 기기에서 정하세요)</li>
             </ol>
             <p class="guide-tip">💡 알바생 비밀번호는 시트의 "알바생" 탭에도 그대로 보입니다. 다른 곳에서 쓰는 중요한 비밀번호는 쓰지 말고 <b>4자리 숫자</b>처럼 간단한 것으로 정하세요.</p>
           </div>
@@ -686,7 +686,7 @@
               </tbody>
             </table></div>
             <ul>
-              <li><b>⚙ 설정 → 출퇴근 시간 끊기</b>에서 단위(5·10·15·20·30·60분), 지각·조기퇴근 <b>봐주기(유예 0·5·10·15분)</b>, 출근·퇴근 각각 <b>찍은 그대로(분 단위)</b>를 고를 수 있습니다. 설정 화면에 지금 설정으로 계산한 예시가 나옵니다.</li>
+              <li><b>설정 → 출퇴근 시간 끊기</b>에서 단위(5·10·15·20·30·60분), 지각·조기퇴근 <b>봐주기(유예 0·5·10·15분)</b>, 출근·퇴근 각각 <b>찍은 그대로(분 단위)</b>를 고를 수 있습니다. 설정 화면에 지금 설정으로 계산한 예시가 나옵니다.</li>
               <li>달력에는 위 규칙으로 정한 시각이, 시트의 <b>출퇴근기록</b> 탭에는 <b>실제로 찍은 시각</b>이 그대로 남습니다.</li>
               <li>같은 날 두 번 일하면(점심 후 다시 출근) 한 칸으로 합쳐지고 사이 시간은 휴게로 빠집니다. 휴게시간은 따로 넣지 않으면 0분입니다.</li>
               <li>같은 날 앞선 근무와 합치면 24시간이 넘는 경우(예: 새벽 근무 뒤 같은 날 밤 근무)에는 앞선 근무를 지우지 않고 이번 근무를 <b>[⚠ 퇴근 확인 필요]</b>에 찍은 퇴근 시각과 함께 남깁니다.</li>
@@ -721,7 +721,7 @@
               <li><b>이름 · 계약서상 일하는 날 · 시급</b>을 넣고 <b>[알바생 추가]</b>를 누르면 끝입니다. 알바생이 직접 출퇴근을 찍게 하려면 <b>출퇴근 비밀번호</b>도 함께 정해 주세요.</li>
               <li>알바생이 여러 명이면 이름이 한 줄로 늘어섭니다. <b>손가락으로 옆으로 밀면</b> 다음 사람이 나옵니다. 이름을 누르면 그 사람의 기록으로 바뀝니다.</li>
             </ol>
-            <figure class="guide-fig"><img src="./img/guide-add.webp" alt="알바생 추가 창" loading="lazy" decoding="async"><figcaption>알바생 추가 창</figcaption></figure>
+            <figure class="guide-fig"><img src="./img/guide-add.webp?v=171" alt="알바생 추가 창" loading="lazy" decoding="async"><figcaption>알바생 추가 창</figcaption></figure>
             <p class="guide-step-title">② 출근·퇴근 시간 고르기</p>
             <ol>
               <li>이름 아래 <b>◀ 2026년 11월 ▶</b>로 달을 고릅니다. 가운데 글자를 누르면 원하는 달로 바로 갑니다.</li>
@@ -731,22 +731,22 @@
               <li>매일 같다면 창 아래 <b>[여러 날 한꺼번에 적용하기]</b>에서 평일·주말·같은 요일에 한 번에 넣을 수 있습니다.</li>
               <li>자주 쓰는 근무시간은 <b>[＋ 추가]</b>로 직접 만들 수 있습니다. (최대 20개)</li>
             </ol>
-            <figure class="guide-fig"><img src="./img/guide-main.webp" alt="맨 위 이름 · 달 · 출퇴근 달력 (초록색 칸이 근무한 날)" loading="lazy" decoding="async"><figcaption>맨 위 이름 · 달 · 출퇴근 달력 (초록색 칸이 근무한 날)</figcaption></figure>
-            <figure class="guide-fig"><img src="./img/guide-day.webp" alt="날짜를 누르면 열리는 설정 창" loading="lazy" decoding="async"><figcaption>날짜를 누르면 열리는 설정 창</figcaption></figure>
+            <figure class="guide-fig"><img src="./img/guide-main.webp?v=171" alt="맨 위 이름 · 달 · 출퇴근 달력 (초록색 칸이 근무한 날)" loading="lazy" decoding="async"><figcaption>맨 위 이름 · 달 · 출퇴근 달력 (초록색 칸이 근무한 날)</figcaption></figure>
+            <figure class="guide-fig"><img src="./img/guide-day.webp?v=171" alt="날짜를 누르면 열리는 설정 창" loading="lazy" decoding="async"><figcaption>날짜를 누르면 열리는 설정 창</figcaption></figure>
             <p class="guide-step-title">③ 줄 돈 확인하기</p>
             <ol>
               <li>달력 아래 <b>[줄 돈 보기]</b>를 누르면 <b>"○○님에게 줄 돈"</b>(실수령액)이 나옵니다. 다른 사람이 화면을 볼 수 있어서 <b>금액은 평소에 숨겨져</b> 있습니다. 다시 누르면 숨겨집니다.</li>
               <li><b>[카톡 명세서 복사]</b> 후 카카오톡에 붙여넣으면 알바생에게 바로 보낼 수 있습니다.</li>
               <li><b>[명세서 보기]</b>로 항목별 계산 내용을, <b>[PDF]</b>·<b>[엑셀]</b>로 파일을 만들 수 있습니다.</li>
             </ol>
-            <figure class="guide-fig"><img src="./img/guide-money.webp" alt="줄 돈 보기를 누른 화면" loading="lazy" decoding="async"><figcaption>줄 돈 보기를 누른 화면</figcaption></figure>
+            <figure class="guide-fig"><img src="./img/guide-money.webp?v=171" alt="줄 돈 보기를 누른 화면" loading="lazy" decoding="async"><figcaption>줄 돈 보기를 누른 화면</figcaption></figure>
             <p class="guide-step-title">④ 시급·세금 등 바꾸기</p>
             <ol>
               <li>달력 아래 <b>[정산 설정]</b> 줄을 누르면 설정 창이 올라옵니다.</li>
               <li><b>이름 · 시급 · 주 근무 약속일수 · 세금(3.3% / 4대보험 / 미적용) · 주휴수당 · 식대</b>를 여기서 고치고 <b>[완료]</b>를 누릅니다. 고치는 즉시 저장됩니다.</li>
               <li><b>출퇴근 비밀번호</b>는 알바생이 매장 기기에서 출근·퇴근을 찍을 때 입력하는 번호입니다. 직접 입력하는 방식으로 쓰지 않는다면 비워 두셔도 됩니다.</li>
             </ol>
-            <figure class="guide-fig"><img src="./img/guide-set.webp" alt="정산 설정 창" loading="lazy" decoding="async"><figcaption>정산 설정 창</figcaption></figure>
+            <figure class="guide-fig"><img src="./img/guide-set.webp?v=171" alt="정산 설정 창" loading="lazy" decoding="async"><figcaption>정산 설정 창</figcaption></figure>
           </div>
         </details>
 
@@ -778,10 +778,10 @@
               <li>위쪽 <b>달</b>을 바꾸면 그 달의 기록이 나옵니다. 기록이 없는 달은 비어 있습니다.</li>
               <li>시급을 바꾸면 <b>바꾼 달부터</b> 적용되고, 지난 달 기록은 그대로입니다.</li>
               <li>맨 아래 <b>정산 명단</b>에는 알바생이 한 줄씩 카드로 나옵니다. 근무시간과 식대 횟수, 금액이 보이고(금액은 <b>[줄 돈 보기]</b>를 눌러야 보임), 카드를 누르면 그 사람 기록으로 바뀌고, 오른쪽 <b>✕</b>를 누르면 삭제합니다.</li>
-              <li><b>[엑셀(.xlsx) 다운로드 · 사람 고르기]</b>를 누르면 알바생 목록이 뜹니다. <b>받고 싶은 사람만 체크</b>하고 <b>[엑셀 받기]</b>를 누르면, 체크한 사람의 모든 달 기록이 한 파일로 받아집니다. <b>[알바생 본인용]</b>에 체크하면 급여 금액·시급·세금 없이 <b>출근일자·근무시간·식대 횟수만</b> 담긴 파일이 만들어져 알바생에게 그대로 줄 수 있습니다. 한 명만 체크하면 파일 이름에 그 사람 이름이 들어갑니다.</li>
+              <li>정산 명단 오른쪽 위 <b>[⋯] → [엑셀로 받기]</b>를 누르면 알바생 목록이 뜹니다. <b>받고 싶은 사람만 체크</b>하고 <b>[엑셀 받기]</b>를 누르면, 체크한 사람의 모든 달 기록이 한 파일로 받아집니다. <b>[알바생 본인용]</b>에 체크하면 급여 금액·시급·세금 없이 <b>출근일자·근무시간·식대 횟수만</b> 담긴 파일이 만들어져 알바생에게 그대로 줄 수 있습니다. 한 명만 체크하면 파일 이름에 그 사람 이름이 들어갑니다.</li>
             </ol>
-            <figure class="guide-fig"><img src="./img/guide-roster.webp" alt="정산 명단 (카드 목록)" loading="lazy" decoding="async"><figcaption>정산 명단 (카드 목록)</figcaption></figure>
-            <figure class="guide-fig"><img src="./img/guide-export.webp" alt="엑셀로 받을 알바생 고르기" loading="lazy" decoding="async"><figcaption>엑셀로 받을 알바생 고르기</figcaption></figure>
+            <figure class="guide-fig"><img src="./img/guide-roster.webp?v=171" alt="정산 명단 (오른쪽 위 ⋯ 메뉴를 연 모습)" loading="lazy" decoding="async"><figcaption>정산 명단 (오른쪽 위 ⋯ 메뉴를 연 모습)</figcaption></figure>
+            <figure class="guide-fig"><img src="./img/guide-export.webp?v=171" alt="엑셀로 받을 알바생 고르기" loading="lazy" decoding="async"><figcaption>엑셀로 받을 알바생 고르기</figcaption></figure>
           </div>
         </details>
 
@@ -795,7 +795,7 @@
               <li>전부 괜찮다면 <b>[✅ 전체 적합으로 체크]</b>를 누르면 됩니다.</li>
               <li>특이사항이 있으면 메모에 적습니다.</li>
               <li><b>[🗂 보관함에 저장]</b>을 누르면 그날 점검표가 저장됩니다. 매일 저장해 두면 기록이 쌓입니다.</li>
-              <li><b>[🖨 점검표 PDF 출력/저장]</b>, <b>[📊 엑셀 다운로드]</b>로 점검표를 파일로 만들 수 있습니다.</li>
+              <li><b>[🖨 점검표 PDF 출력/저장]</b>, <b>[📊 점검표 엑셀(.xlsx) 다운로드]</b>로 점검표를 파일로 만들 수 있습니다.</li>
             </ol>
             <p class="guide-tip">💡 20번 항목(냉장·냉동고 온도)은 체크해도, 입력한 온도가 기준(냉장 0~5°C, 냉동 -18°C 이하)을 벗어나면 점검필요로 나옵니다.</p>
           </div>
@@ -809,7 +809,7 @@
               <li>관리자 화면 위의 <b>🔔</b>에 만료가 다가온 사람 수가 나옵니다. 누르면 <b>만료 → 7일 이내(빨강) → 곧 만료(노랑) → 날짜 미등록</b> 순서로 보입니다. 출퇴근 화면에는 보이지 않습니다.</li>
               <li>새 보건증을 받으면 <b>[새로 받았어요]</b>에서 검진일만 고르세요. 옛 만료일 <b>전후 30일 안</b>에 검진했다면 법에 따라 <b>옛 만료일 다음 날부터 1년</b>으로 계산됩니다.</li>
               <li>그만둔 사람이나 휴직 중인 사람은 <b>[알림 끄기]</b> 또는 정산 설정의 <b>보건증 알림 끄기</b>로 목록에서 뺄 수 있습니다.</li>
-              <li>언제부터 알려 줄지는 <b>⚙ 설정 → 보건증 알림</b>에서 30일·14일·7일 중 고릅니다. 보건소 결과가 보통 3~7일 걸리니 30일을 추천합니다.</li>
+              <li>언제부터 알려 줄지는 <b>설정 → 보건증 알림</b>에서 30일·14일·7일 중 고릅니다. 보건소 결과가 보통 3~7일 걸리니 30일을 추천합니다.</li>
             </ol>
             <p class="guide-tip">💡 보건증이 만료된 사람이나 날짜를 안 적은 사람이 있으면 위생 점검표 <b>4번(건강진단결과서)</b> 항목 아래에 안내가 뜹니다. 체크 여부는 사장님이 정합니다.</p>
           </div>
@@ -819,7 +819,7 @@
           <summary><span class="guide-sum"><span class="guide-name">손님 계좌이체 QR</span><small class="guide-sub">계좌 저장 · QR 크게 보기 · 안내판 인쇄</small></span></summary>
           <div class="guide-body">
             <ol>
-              <li><b>⚙ 설정 → 손님 계좌이체 QR</b>에 은행·계좌번호·예금주를 적고 <b>[저장]</b>을 누릅니다. 관리자 비밀번호가 있으면 한 번 더 확인합니다.</li>
+              <li><b>설정 → 손님 계좌이체 QR</b>에 은행·계좌번호·예금주를 적고 <b>[저장]</b>을 누릅니다. 관리자 비밀번호가 있으면 한 번 더 확인합니다.</li>
               <li>출퇴근 화면의 <b>[💳 계좌이체 QR]</b>을 누르면 큰 QR이 뜹니다. 관리자 잠금 중에도 <b>보기만</b> 할 수 있습니다. <b>[🖨 안내판 인쇄]</b>로 카운터에 붙여 둘 안내판도 만들 수 있습니다.</li>
               <li>손님이 휴대폰 카메라로 찍으면 은행·계좌번호·예금주가 보이고, <b>[계좌번호 복사]</b>를 누른 뒤 쓰는 송금 앱에 붙여 넣으면 됩니다. 계좌 정보는 주소의 # 뒤에만 들어 있어 어느 서버로도 보내지지 않습니다.</li>
               <li>다른 기기에서 계좌가 바뀌면 이 기기에서는 <b>확인하기 전까지 QR이 숨겨지고</b> 🔔와 설정에 안내가 뜹니다. 맞는 계좌인지 보고 <b>[맞아요, 이 계좌로 QR 표시]</b>를 누르세요.</li>
@@ -882,11 +882,11 @@
           <summary><span class="guide-sum"><span class="guide-name">자주 묻는 질문</span><small class="guide-sub">세금 비율 · 기록이 사라짐 · 비밀번호를 잊음</small></span></summary>
           <div class="guide-body">
             <p class="guide-q">세금이나 4대보험 비율이 바뀌었어요.</p>
-            <p>위쪽 <b>⚙ 설정</b> 탭에서 소득세·국민연금·건강보험 등의 비율과 최저시급을 고치면 바로 계산에 반영됩니다. 처음 값으로 되돌릴 수도 있습니다.</p>
+            <p><b>설정</b> 탭의 <b>세금·4대보험 비율</b>, <b>최저시급·식사 시간대</b> 줄을 눌러 소득세·국민연금·건강보험 등의 비율과 최저시급을 고치면 바로 계산에 반영됩니다. 처음 값으로 되돌릴 수도 있습니다.</p>
             <p class="guide-q">기록이 사라졌어요.</p>
             <p>기록은 사용 중인 브라우저에 저장됩니다. 브라우저의 "인터넷 사용 기록/사이트 데이터 삭제"를 하면 같이 지워집니다. 구글 연동이나 백업 파일이 있다면 [☁ 구글 저장] 창에서 불러오세요.</p>
             <p class="guide-q">가게 공용 컴퓨터에서 써도 되나요?</p>
-            <p>쓰고 난 뒤 정산 명단의 <b>[전체 지우기]</b>와 점검 보관함의 <b>[비우기]</b>를 눌러 주세요. 다음 사람이 같은 브라우저에서 알바 이름과 시급을 볼 수 있습니다.</p>
+            <p>쓰고 난 뒤 정산 명단과 점검 보관함의 오른쪽 위 <b>[⋯]</b>에서 <b>[명단 전체 지우기]</b>, <b>[보관함 비우기]</b>를 눌러 주세요. 다음 사람이 같은 브라우저에서 알바 이름과 시급을 볼 수 있습니다.</p>
             <p class="guide-q">내가 입력한 급여 정보가 어디로 전송되나요?</p>
             <p>기본적으로 어디로도 전송되지 않고 이 기기에서만 계산됩니다. 구글 연동을 켠 경우에만 내 구글 드라이브로 저장됩니다.</p>
             <p class="guide-q">계산 결과를 그대로 신고해도 되나요?</p>
